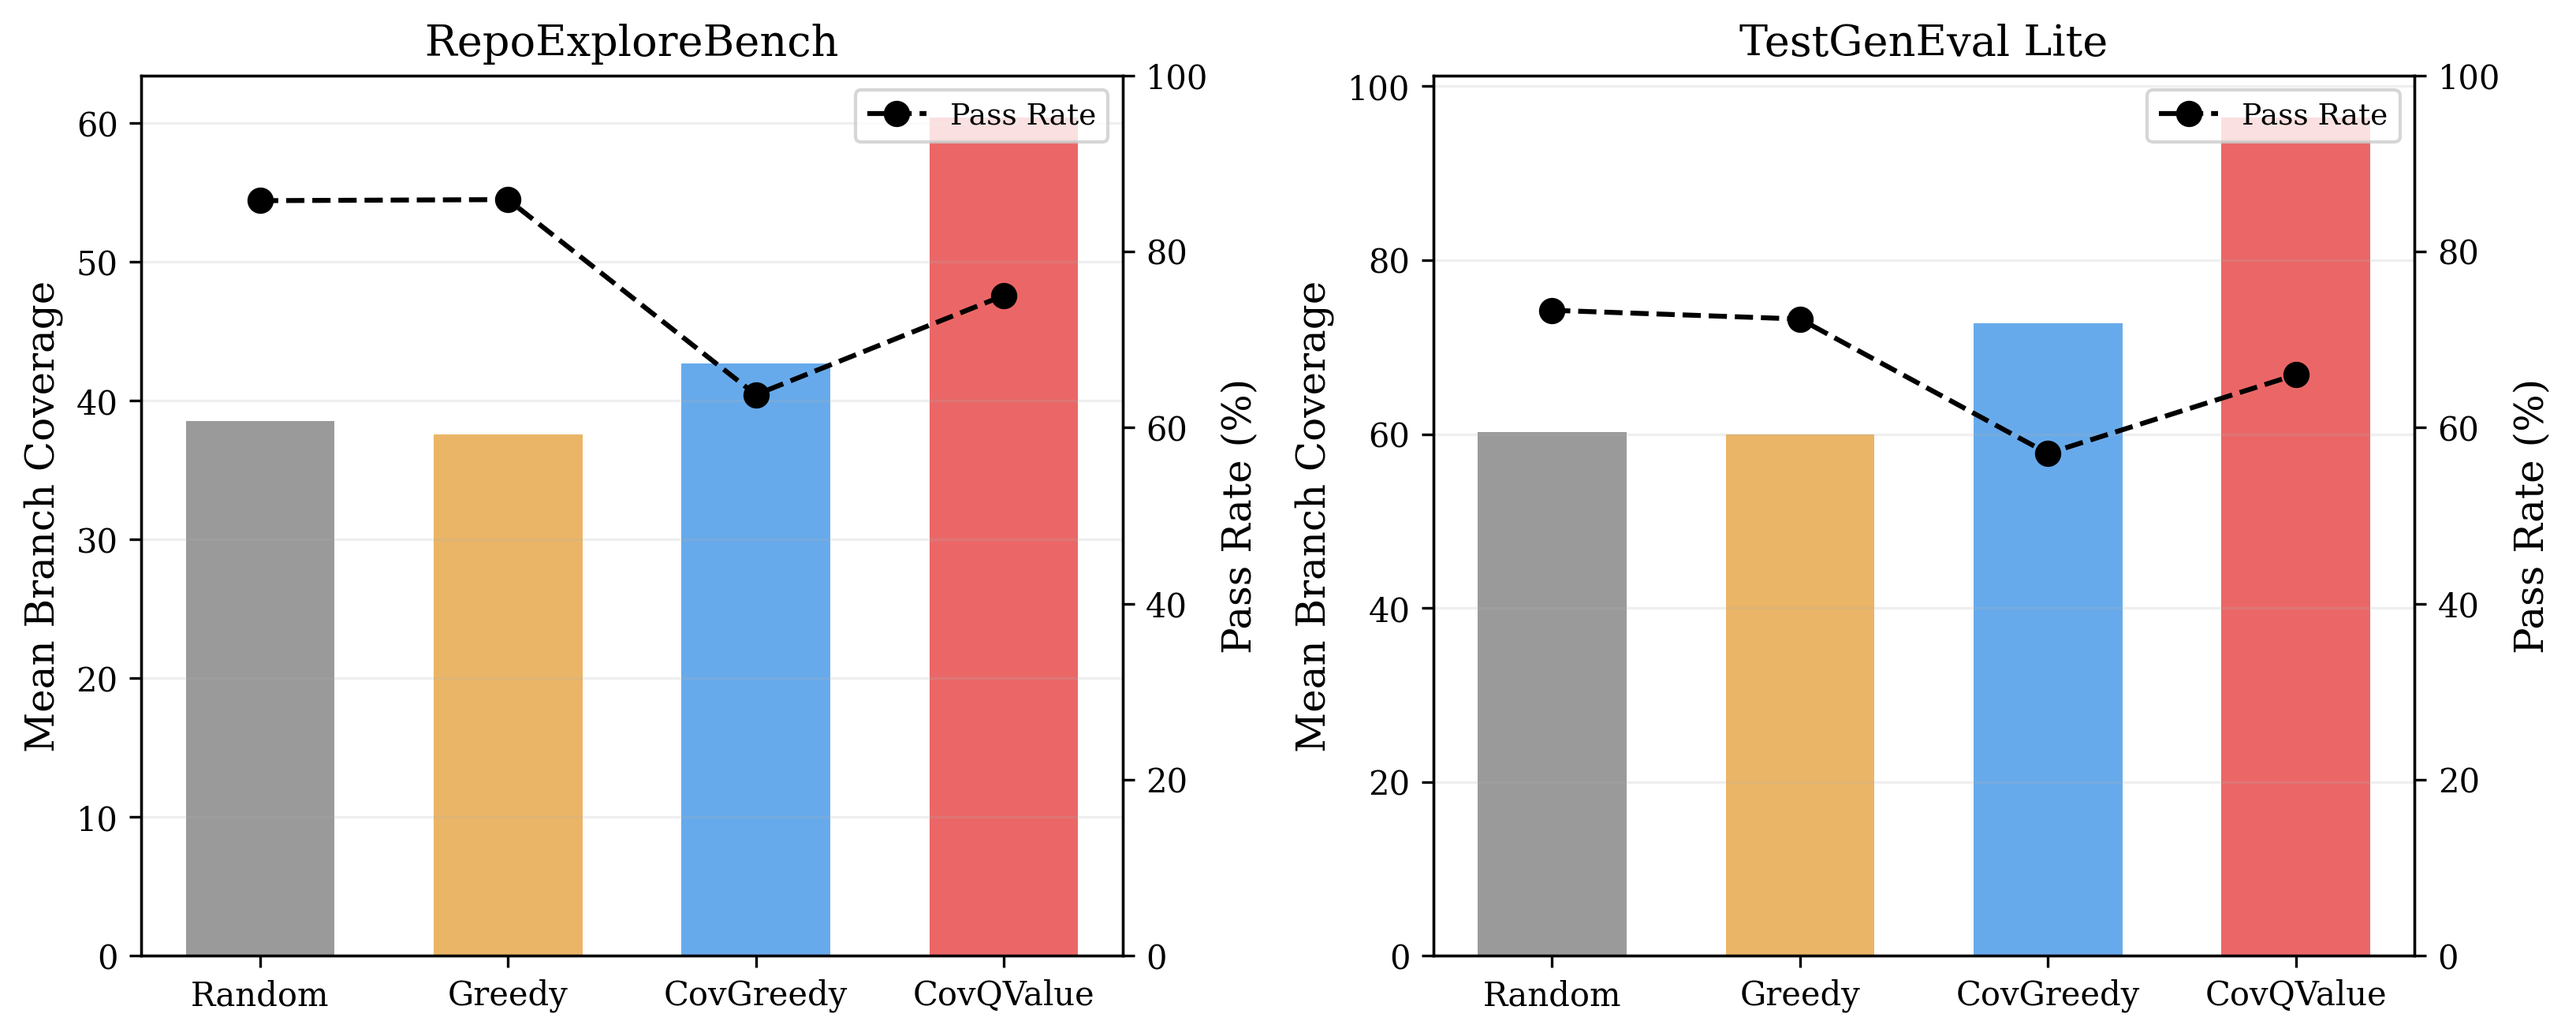
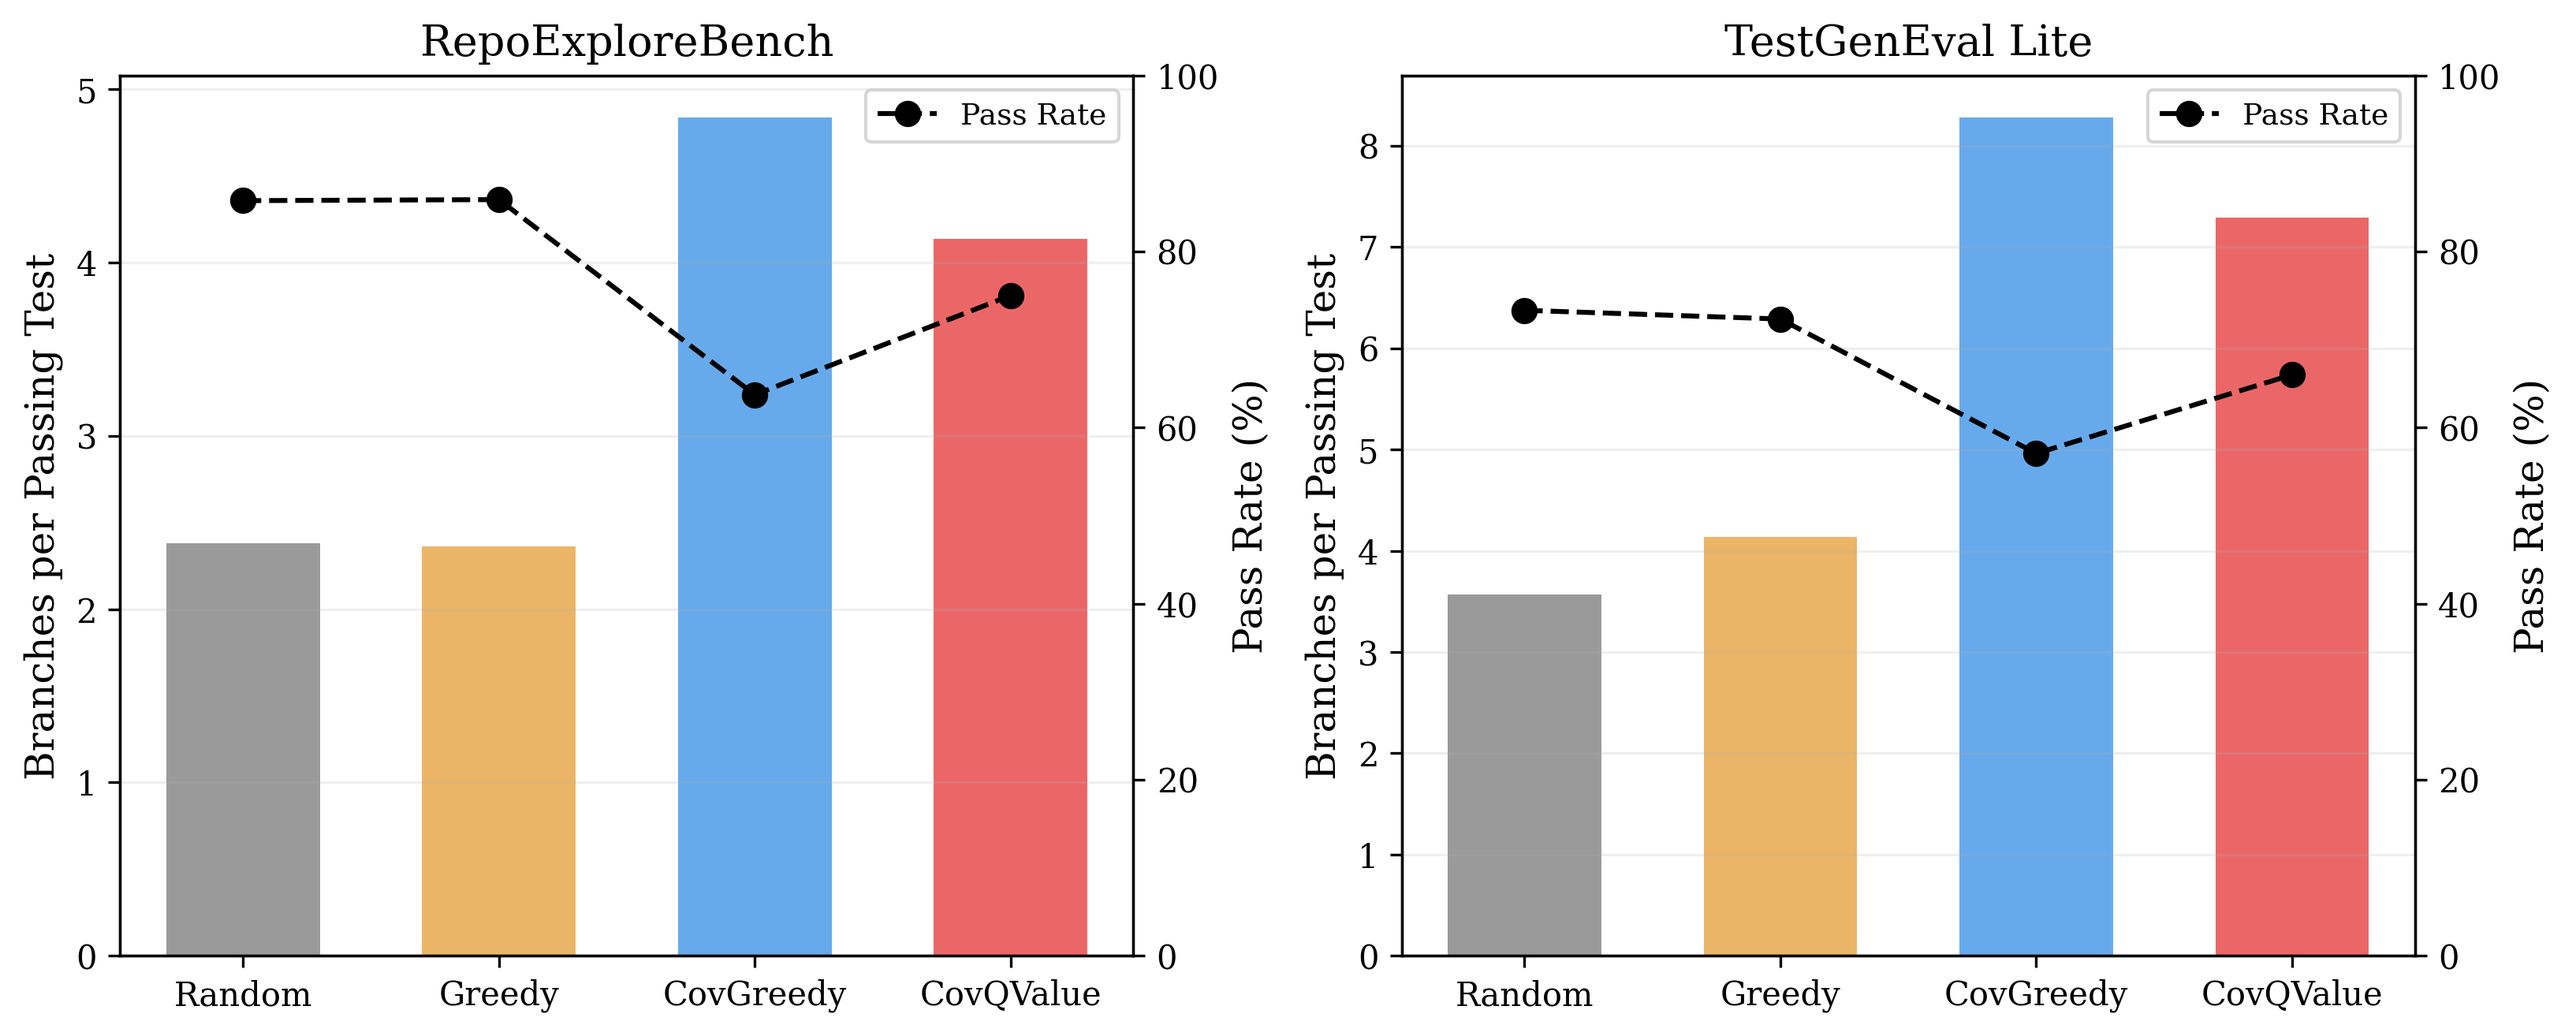
Fig4: branches per passing test (not total coverage)
Shows test efficiency: CovQValue discovers ~4x more branches per
successful test than Random/Greedy. Combined with pass rate line,
tells the story that coverage gains come from targeting deeper paths,
not from writing more valid tests.

diff --git a/plots/paper_figures.py b/plots/paper_figures.py
@@ -251,7 +251,7 @@ def fig_per_repo(data):
 # ---------------------------------------------------------------------------
 
 def fig_pass_rate_vs_coverage(data):
-    """Dual-axis chart: coverage bars + pass rate line, averaged across all models."""
+    """Branches per passing test + pass rate: shows CovQValue is more efficient."""
     fig, axes = plt.subplots(1, 2, figsize=(11, 4.5))
 
     bench_labels = {
@@ -260,34 +260,43 @@ def fig_pass_rate_vs_coverage(data):
     }
 
     for ax, bench in zip(axes, ["repo_explore_bench", "testgeneval"]):
-        # Average across all models
         all_results = []
         for mk in MODELS:
             if mk in data[bench]:
                 all_results.extend(data[bench][mk]["results"])
 
-        means_br = []
+        means_eff = []
         means_pr = []
         for s in STRATEGIES:
-            vals_br = [r["strategies"][s]["final"] for r in all_results
-                       if s in r["strategies"]]
-            vals_pr = [r["strategies"][s].get("pass_rate", 0) for r in all_results
-                       if s in r["strategies"]]
-            means_br.append(np.mean(vals_br))
-            means_pr.append(np.mean(vals_pr) * 100)
+            # Compute branches per passing test for each run
+            effs = []
+            prs = []
+            for r in all_results:
+                if s not in r["strategies"]:
+                    continue
+                final = r["strategies"][s]["final"]
+                pr = r["strategies"][s].get("pass_rate", 0)
+                pc = r["strategies"][s].get("pass_count", 0)
+                prs.append(pr)
+                if pc > 0:
+                    effs.append(final / pc)
+                else:
+                    effs.append(0)
+            means_eff.append(np.mean(effs))
+            means_pr.append(np.mean(prs) * 100)
 
         x = np.arange(len(STRATEGIES))
         colors = [STRATEGY_COLORS[s] for s in STRATEGIES]
         labels = [STRATEGY_LABELS[s] for s in STRATEGIES]
 
-        # Bars for coverage
-        bars = ax.bar(x, means_br, 0.6, color=colors, alpha=0.85)
-        ax.set_ylabel("Mean Branch Coverage")
+        # Bars for branches per passing test
+        ax.bar(x, means_eff, 0.6, color=colors, alpha=0.85)
+        ax.set_ylabel("Branches per Passing Test")
         ax.set_xticks(x)
         ax.set_xticklabels(labels)
         ax.set_title(bench_labels[bench])
 
-        # Line for pass rate on secondary axis
+        # Line for pass rate
         ax2 = ax.twinx()
         ax2.plot(x, means_pr, "k--o", markersize=7, linewidth=1.5,
                  label="Pass Rate", zorder=5)
